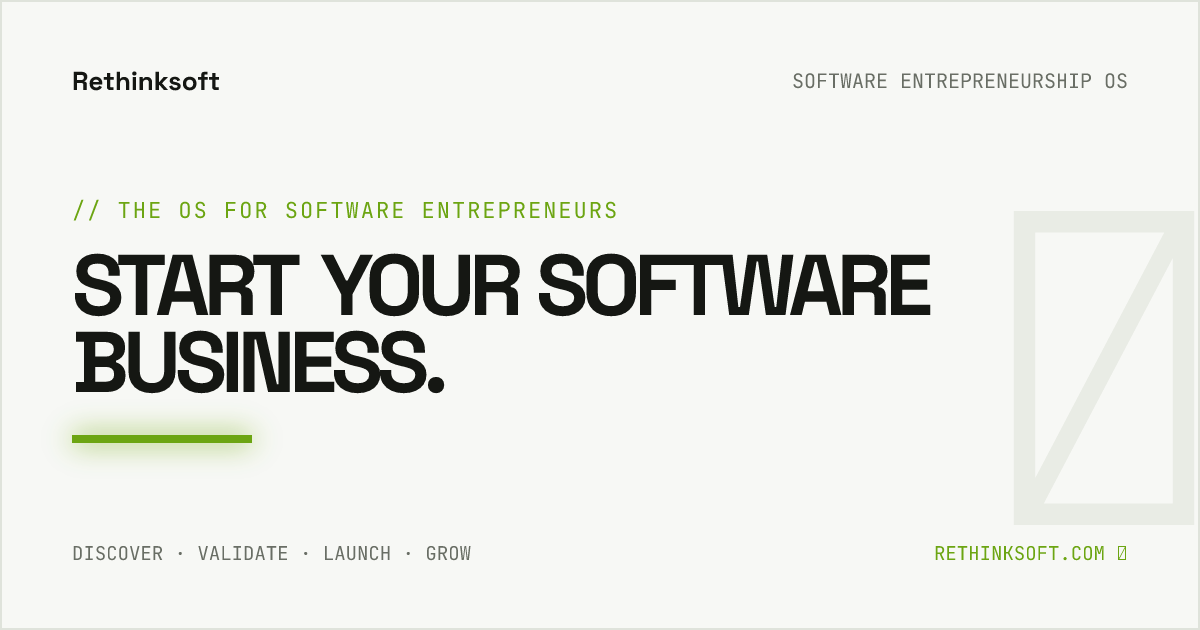
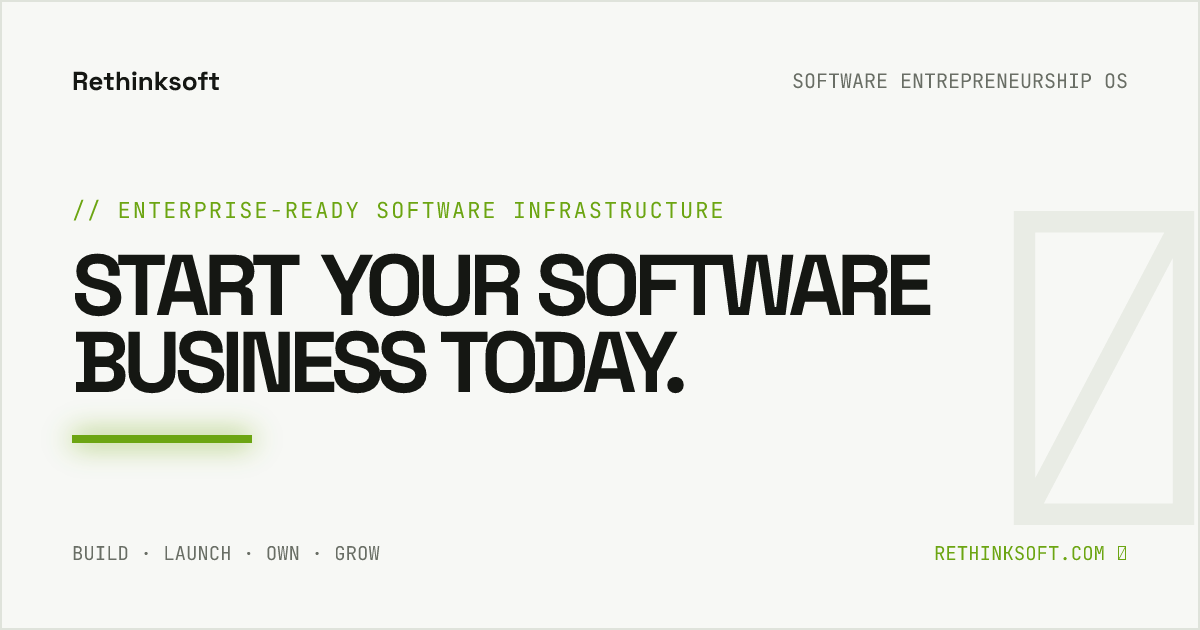
Update homepage infrastructure positioning

Changed region(s): [[0.0925, 0.3016, 0.6167, 0.3619], [0.3392, 0.5127, 0.5858, 0.6333], [0.0617, 0.8444, 0.4008, 0.9048]]

diff --git a/src/styles/pivot.css b/src/styles/pivot.css
@@ -1,5 +1,5 @@
 :root{--pivot-ink:#0c0e0c;--pivot-paper:#f4f3ef;--pivot-line:#d8d9d2;--pivot-muted:#696e67;--pivot-signal:#b9f25b;--pivot-orange:#eb5b1c}
-.entrepreneurship-home .foundry-hero h1 em{color:#6ca512}.opportunity-home{background:radial-gradient(circle at 88% 8%,rgba(185,242,91,.11),transparent 25%),var(--pivot-ink)!important;color:#fff}.opportunity-home .story-card-head>p{color:#a3aaa0}.opportunity-home .foundry-section-code{color:#8e958a}.home-opportunity-grid{display:grid;margin:42px 0 24px;grid-template-columns:repeat(3,1fr);gap:12px}.home-opportunity-grid>a{display:flex;min-height:315px;padding:23px;flex-direction:column;border:1px solid #363b35;border-radius:12px;background:#141714;color:#fff;transition:transform .25s,border-color .25s,background .25s}.home-opportunity-grid>a:hover{border-color:#6ca512;background:#181c17;transform:translateY(-5px)}.home-opportunity-grid>a>span{color:#858c81;font:7px 'JetBrains Mono',monospace;text-transform:uppercase}.home-opportunity-grid h3{margin:31px 0 10px;font-size:22px;font-weight:560;letter-spacing:-.04em}.home-opportunity-grid p{margin:0;color:#969d92;font-size:10px;line-height:1.6}.home-opportunity-grid>a>div{display:flex;margin-top:auto;padding-top:25px;align-items:end;justify-content:space-between}.home-opportunity-grid small{color:#777e74;font:6px 'JetBrains Mono',monospace}.home-opportunity-grid strong{color:var(--pivot-signal);font-size:34px;font-weight:520}.home-opportunity-grid strong em{color:#7c8378;font:7px 'JetBrains Mono',monospace}.home-opportunity-grid>a>b{display:block;margin-top:17px;padding-top:15px;border-top:1px solid #323631;color:#c9cec5;font:7px 'JetBrains Mono',monospace}.opportunity-home .story-fit-cta{color:#fff}.validation-lists{display:grid;grid-template-columns:repeat(2,1fr);gap:15px}.validation-lists section{padding:22px;border:1px solid var(--pivot-line);border-radius:12px;background:#fafbf8}.validation-lists h3{margin:0 0 17px;font-size:15px}.validation-lists ul{display:grid;margin:0;padding:0;list-style:none;gap:10px}.validation-lists li{display:flex;color:var(--pivot-muted);font-size:10px;line-height:1.45;gap:9px}.validation-lists li::before{color:#6ca512;content:'✓';font-weight:700}.founder-os-actions{display:flex;margin:28px 0 3px;padding-top:18px;border-top:1px solid var(--pivot-line);flex-wrap:wrap;gap:7px}.founder-os-actions span{padding:7px 9px;border-radius:999px;background:#eef4e5;color:#55604c;font:7px 'JetBrains Mono',monospace}.ecosystem-grid{display:grid;margin-top:40px;grid-template-columns:repeat(3,1fr);gap:12px}.ecosystem-grid>a,.ecosystem-grid>div{display:flex;min-height:280px;padding:25px;flex-direction:column;border:1px solid var(--pivot-line);border-radius:12px;background:#fafbf8;transition:transform .25s,border-color .25s,box-shadow .25s}.ecosystem-grid>a:hover{border-color:#9dbc6d;box-shadow:0 18px 45px rgba(57,74,33,.09);transform:translateY(-5px)}.ecosystem-grid span{color:#8c9289;font:8px 'JetBrains Mono',monospace}.ecosystem-grid h3{margin:45px 0 11px;font-size:23px;font-weight:560;letter-spacing:-.04em}.ecosystem-grid p{margin:0;color:var(--pivot-muted);font-size:10px;line-height:1.6}.ecosystem-grid b{margin-top:auto;padding-top:20px;color:#50613f;font:7px 'JetBrains Mono',monospace}.pilot-banner h2 em{color:var(--pivot-signal);font-style:normal}.final-action-stack{display:flex;align-items:stretch;flex-direction:column;gap:10px}.final-action-stack .foundry-primary,.final-action-stack .foundry-secondary{display:flex;min-height:57px;align-items:center;justify-content:center}.final-action-stack .foundry-secondary{border-color:#3d433b;color:#fff}.final-action-stack>p{margin:7px 0 0;color:#727970;font-size:9px;text-align:center}
+.entrepreneurship-home .foundry-hero h1 em{color:#6ca512}.hero-trust-line{display:flex!important;margin:20px 0 0!important;align-items:center;justify-content:center;color:#6e746b!important;font:600 9px 'JetBrains Mono',monospace!important;letter-spacing:.03em;gap:13px}.hero-trust-line i{width:4px;height:4px;border-radius:50%;background:#6ca512}.opportunity-home{background:radial-gradient(circle at 88% 8%,rgba(185,242,91,.11),transparent 25%),var(--pivot-ink)!important;color:#fff}.opportunity-home .story-card-head>p{color:#a3aaa0}.opportunity-home .foundry-section-code{color:#8e958a}.home-opportunity-grid{display:grid;margin:42px 0 24px;grid-template-columns:repeat(3,1fr);gap:12px}.home-opportunity-grid>a{display:flex;min-height:315px;padding:23px;flex-direction:column;border:1px solid #363b35;border-radius:12px;background:#141714;color:#fff;transition:transform .25s,border-color .25s,background .25s}.home-opportunity-grid>a:hover{border-color:#6ca512;background:#181c17;transform:translateY(-5px)}.home-opportunity-grid>a>span{color:#858c81;font:7px 'JetBrains Mono',monospace;text-transform:uppercase}.home-opportunity-grid h3{margin:31px 0 10px;font-size:22px;font-weight:560;letter-spacing:-.04em}.home-opportunity-grid p{margin:0;color:#969d92;font-size:10px;line-height:1.6}.home-opportunity-grid>a>div{display:flex;margin-top:auto;padding-top:25px;align-items:end;justify-content:space-between}.home-opportunity-grid small{color:#777e74;font:6px 'JetBrains Mono',monospace}.home-opportunity-grid strong{color:var(--pivot-signal);font-size:34px;font-weight:520}.home-opportunity-grid strong em{color:#7c8378;font:7px 'JetBrains Mono',monospace}.home-opportunity-grid>a>b{display:block;margin-top:17px;padding-top:15px;border-top:1px solid #323631;color:#c9cec5;font:7px 'JetBrains Mono',monospace}.opportunity-home .story-fit-cta{color:#fff}.validation-lists{display:grid;grid-template-columns:repeat(2,1fr);gap:15px}.validation-lists section{padding:22px;border:1px solid var(--pivot-line);border-radius:12px;background:#fafbf8}.validation-lists h3{margin:0 0 17px;font-size:15px}.validation-lists ul{display:grid;margin:0;padding:0;list-style:none;gap:10px}.validation-lists li{display:flex;color:var(--pivot-muted);font-size:10px;line-height:1.45;gap:9px}.validation-lists li::before{color:#6ca512;content:'✓';font-weight:700}.founder-os-actions{display:flex;margin:28px 0 3px;padding-top:18px;border-top:1px solid var(--pivot-line);flex-wrap:wrap;gap:7px}.founder-os-actions span{padding:7px 9px;border-radius:999px;background:#eef4e5;color:#55604c;font:7px 'JetBrains Mono',monospace}.ecosystem-grid{display:grid;margin-top:40px;grid-template-columns:repeat(3,1fr);gap:12px}.ecosystem-grid>a,.ecosystem-grid>div{display:flex;min-height:280px;padding:25px;flex-direction:column;border:1px solid var(--pivot-line);border-radius:12px;background:#fafbf8;transition:transform .25s,border-color .25s,box-shadow .25s}.ecosystem-grid>a:hover{border-color:#9dbc6d;box-shadow:0 18px 45px rgba(57,74,33,.09);transform:translateY(-5px)}.ecosystem-grid span{color:#8c9289;font:8px 'JetBrains Mono',monospace}.ecosystem-grid h3{margin:45px 0 11px;font-size:23px;font-weight:560;letter-spacing:-.04em}.ecosystem-grid p{margin:0;color:var(--pivot-muted);font-size:10px;line-height:1.6}.ecosystem-grid b{margin-top:auto;padding-top:20px;color:#50613f;font:7px 'JetBrains Mono',monospace}.pilot-banner h2 em{color:var(--pivot-signal);font-style:normal}.final-action-stack{display:flex;align-items:stretch;flex-direction:column;gap:10px}.final-action-stack .foundry-primary,.final-action-stack .foundry-secondary{display:flex;min-height:57px;align-items:center;justify-content:center}.final-action-stack .foundry-secondary{border-color:#3d433b;color:#fff}.final-action-stack>p{margin:7px 0 0;color:#727970;font-size:9px;text-align:center}
 .pivot-page{background:#fff;color:var(--pivot-ink)}
 .pivot-hero{position:relative;overflow:hidden;padding:128px 0 96px;background:radial-gradient(circle at 84% 10%,rgba(235,91,28,.16),transparent 25%),radial-gradient(circle at 9% 88%,rgba(185,242,91,.18),transparent 27%),linear-gradient(180deg,#fffaf6,#fff)}
 .pivot-hero.compact{padding:105px 0 78px}.pivot-hero .foundry-grid{opacity:.45}.pivot-hero-inner{position:relative;z-index:1}.pivot-hero h1{max-width:980px;margin:34px 0 25px;font-size:clamp(58px,8.2vw,112px);font-weight:520;line-height:.87;letter-spacing:-.075em}.pivot-hero h1 em{color:#6ca512;font-style:normal}.pivot-hero-inner>p:last-of-type{max-width:720px;margin:0;color:var(--pivot-muted);font-size:17px;line-height:1.65}
@@ -11,4 +11,4 @@
 .founder-os-page{background:#f3f4ef}.founder-os-head{position:relative;overflow:hidden;padding:80px 0 52px;border-bottom:1px solid var(--pivot-line);background:radial-gradient(circle at 86% 10%,rgba(185,242,91,.2),transparent 26%),#fff}.founder-os-head>.container{position:relative;z-index:1;display:flex;align-items:end;justify-content:space-between;gap:40px}.founder-os-identity{display:flex;max-width:820px;align-items:flex-start;gap:20px}.founder-os-identity>span{display:grid;width:58px;height:58px;flex:0 0 58px;place-items:center;border-radius:15px;background:var(--pivot-ink);color:var(--pivot-signal);font:600 15px 'JetBrains Mono',monospace}.founder-os-identity h1{margin:6px 0 8px;font-size:clamp(38px,5vw,68px);font-weight:540;letter-spacing:-.06em}.founder-os-identity>div>p:last-child{max-width:700px;margin:0;color:var(--pivot-muted);font-size:12px;line-height:1.55}.founder-os-stage{display:flex;flex-direction:column;align-items:flex-end}.founder-os-stage small{color:#7d837b;font:7px 'JetBrains Mono',monospace}.founder-os-stage strong{margin:6px 0 14px;font:600 13px 'JetBrains Mono',monospace}.founder-os-stage a{padding-bottom:3px;border-bottom:1px solid #86907d;color:#485540;font:7px 'JetBrains Mono',monospace}.founder-os-shell{padding:30px 0 120px}.os-metrics{display:grid;margin-bottom:18px;grid-template-columns:repeat(4,1fr);border:1px solid var(--pivot-line);border-radius:15px;background:#fff;overflow:hidden}.os-metrics article{display:flex;min-height:130px;padding:22px;flex-direction:column;border-right:1px solid var(--pivot-line)}.os-metrics article:last-child{border-right:0}.os-metrics small{color:#858b82;font:7px 'JetBrains Mono',monospace}.os-metrics strong{margin:auto 0 4px;font-size:31px;font-weight:540;letter-spacing:-.05em}.os-metrics strong em{color:#8a9088;font:10px 'JetBrains Mono',monospace}.os-metrics span{color:#747b72;font:7px 'JetBrains Mono',monospace}.founder-os-grid{display:grid;grid-template-columns:minmax(0,1.35fr) minmax(310px,.65fr);gap:18px}.os-panel{padding:30px;border:1px solid var(--pivot-line);border-radius:17px;background:#fff;box-shadow:0 15px 45px rgba(36,43,29,.045)}.os-panel-head{display:flex;align-items:start;justify-content:space-between;gap:25px}.os-panel-head h2{margin:0;font-size:31px;font-weight:550;line-height:1.02;letter-spacing:-.05em}.os-panel-head h2 em{color:#6ca512;font-style:normal}.os-panel-head>span{padding:7px 8px;border:1px solid #d8dcd4;border-radius:999px;color:#747a71;font:6px 'JetBrains Mono',monospace;white-space:nowrap}.os-score-layout{display:grid;margin-top:34px;grid-template-columns:180px 1fr;align-items:center;gap:35px}.os-score-number strong{display:flex;align-items:flex-end;font-size:82px;font-weight:520;line-height:.8;letter-spacing:-.08em}.os-score-number strong i{font-style:normal}.os-score-number strong em{margin-left:7px;color:#7b8178;font:10px 'JetBrains Mono',monospace}.os-score-number>span{display:inline-block;margin-top:16px;padding:6px 8px;border-radius:999px;background:#e9f8d2;color:#365500;font:7px 'JetBrains Mono',monospace}.os-dimensions{display:grid;gap:11px}.os-dimensions>div{display:grid;grid-template-columns:90px 1fr 22px;align-items:center;gap:10px}.os-dimensions span{font-size:9px}.os-dimensions i{height:4px;background:#e0e3dc;overflow:hidden}.os-dimensions b{display:block;height:100%;background:#6ca512}.os-dimensions strong{font:8px 'JetBrains Mono',monospace;text-align:right}.os-score-note{margin:26px 0 0;padding-top:18px;border-top:1px solid var(--pivot-line);color:#7a8077;font-size:9px;line-height:1.6}.os-priority{background:var(--pivot-ink);color:#fff}.os-priority .foundry-section-code{color:#8c9388}.os-priority .os-panel-head>span{border-color:#3c423a;color:#9ea49a}.os-priority blockquote{margin:48px 0 60px;padding:0;border:0;color:#d3d7cf;font-size:18px;line-height:1.45;letter-spacing:-.02em}.os-focus{padding-top:20px;border-top:1px solid #363b35}.os-focus small{color:#8e958a;font:7px 'JetBrains Mono',monospace}.os-focus strong{display:block;margin-top:9px;color:var(--pivot-signal);font-size:13px;line-height:1.4}.os-goals{grid-column:1}.os-goal-list{display:grid;margin-top:28px}.os-goal{display:grid;min-height:78px;padding:13px 0;grid-template-columns:38px 1fr;align-items:center;border-top:1px solid var(--pivot-line);cursor:pointer;gap:15px}.os-goal input{position:absolute;opacity:0}.os-goal>i{display:grid;width:34px;height:34px;place-items:center;border:1px solid #ccd1c7;border-radius:50%;color:#788075;font:8px 'JetBrains Mono',monospace;font-style:normal;transition:.2s}.os-goal:hover>i,.os-goal.complete>i{border-color:#7cad2e;background:#e8f7d0;color:#365500}.os-goal span{display:flex;flex-direction:column;gap:5px}.os-goal small{color:#8a9087;font:6px 'JetBrains Mono',monospace}.os-goal strong{font-size:12px;font-weight:560}.os-goal.complete strong{text-decoration:line-through;color:#858b83}.os-goal-note{margin:18px 0 0;color:#858b83;font-size:8px}.os-next{grid-column:2;grid-row:2}.os-next h2{margin:0 0 27px;font-size:26px;font-weight:550;line-height:1.06;letter-spacing:-.045em}.os-next nav{display:grid}.os-next nav a{display:grid;padding:18px 0;grid-template-columns:25px 1fr auto;border-top:1px solid var(--pivot-line);gap:10px}.os-next nav a>span{color:#91978e;font:7px 'JetBrains Mono',monospace}.os-next nav strong{font-size:11px}.os-next nav p{margin:5px 0 0;color:var(--pivot-muted);font-size:9px;line-height:1.45}.os-next nav i{color:#6ca512;font-style:normal}.private-empty{padding:150px 0}.private-empty h1{max-width:900px;margin:24px 0;font-size:clamp(52px,8vw,100px);font-weight:520;line-height:.9;letter-spacing:-.07em}.private-empty h1 em{color:#6ca512;font-style:normal}.private-empty>p:not(.foundry-section-code){max-width:600px;margin:0 0 35px;color:var(--pivot-muted);font-size:15px;line-height:1.6}
 @media(max-width:1000px){.home-opportunity-grid{grid-template-columns:1fr}.home-opportunity-grid>a{min-height:240px}.start-shell{grid-template-columns:280px 1fr;gap:35px}.opportunity-card{grid-template-columns:38px 1fr 130px}.opportunity-signals{grid-column:2/-1}.founder-os-grid{grid-template-columns:1fr}.os-goals,.os-next{grid-column:auto;grid-row:auto}}
 @media(max-width:800px){.validation-lists,.ecosystem-grid{grid-template-columns:1fr}.ecosystem-grid>a,.ecosystem-grid>div{min-height:230px}.pivot-hero,.pivot-hero.compact{padding:78px 0 60px}.pivot-hero h1{font-size:clamp(50px,14vw,74px)}.pivot-hero-inner>p:last-of-type{font-size:14px}.start-shell{padding:58px 0 90px;grid-template-columns:1fr}.start-aside{position:static}.founder-start-form{padding:25px}.form-grid.two{grid-template-columns:1fr}.start-submit{align-items:stretch;flex-direction:column}.start-submit .foundry-primary{justify-content:center}.opportunity-toolbar{align-items:stretch;flex-direction:column}.opportunity-toolbar>span{padding-left:2px}.opportunity-card{padding:22px;grid-template-columns:30px 1fr}.opportunity-score{grid-column:1/-1;padding:18px 0;border-top:1px solid var(--pivot-line);flex-direction:row;align-items:end;gap:12px}.opportunity-score strong{margin:0}.opportunity-score small{align-self:start}.opportunity-signals{grid-column:1/-1}.opportunity-brief{grid-column:1/-1}.opportunity-brief>div{grid-template-columns:1fr}.opportunity-start{margin-left:0}.pivot-final-cta>.container{align-items:flex-start;flex-direction:column}.founder-os-head>.container{align-items:flex-start;flex-direction:column}.founder-os-stage{align-items:flex-start}.founder-os-identity{flex-direction:column}.os-metrics{grid-template-columns:repeat(2,1fr)}.os-metrics article:nth-child(2){border-right:0}.os-metrics article:nth-child(-n+2){border-bottom:1px solid var(--pivot-line)}.os-score-layout{grid-template-columns:1fr}.os-panel{padding:23px}.os-panel-head{flex-direction:column}.os-priority blockquote{margin:35px 0}.private-empty{padding:100px 0}}
-@media(max-width:480px){.opportunity-signals{grid-template-columns:1fr}.os-metrics{grid-template-columns:1fr}.os-metrics article{border-right:0!important;border-bottom:1px solid var(--pivot-line)}.os-metrics article:last-child{border-bottom:0}.os-score-number strong{font-size:68px}}
+@media(max-width:480px){.hero-trust-line{align-items:flex-start;flex-direction:column;gap:6px}.hero-trust-line i{display:none}.opportunity-signals{grid-template-columns:1fr}.os-metrics{grid-template-columns:1fr}.os-metrics article{border-right:0!important;border-bottom:1px solid var(--pivot-line)}.os-metrics article:last-child{border-bottom:0}.os-score-number strong{font-size:68px}}
